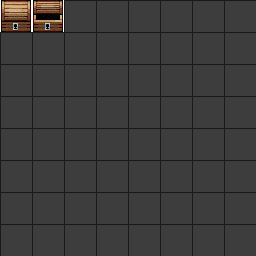
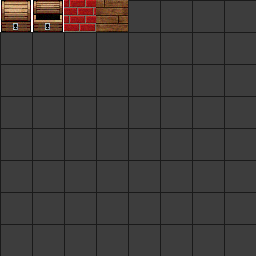
Added some artwork

Changed region(s): [[0.25, 0.0, 0.5, 0.125]]

diff --git a/Source/Trevi/Group/Common/Main.java b/Source/Trevi/Group/Common/Main.java
@@ -64,7 +64,7 @@ public class Main extends Canvas implements Runnable
 	
 	private BufferedImage Image = new BufferedImage(Reference.Width, Reference.Height, BufferedImage.TYPE_INT_RGB);
 	
-	private BufferedImage Item, Block, Player, Shadow, Heart, Currency, Energy, Logo, Button, Map;
+	private BufferedImage Item, Block, Player, Shadow, Heart, Currency, Energy, Logo, Button;
 	private State currentState;
 	private Thread Loop;
 	private Font Console, Fancy;
@@ -96,7 +96,6 @@ public class Main extends Canvas implements Runnable
 			Block = Loader.loadImage("/Graphics/Game/Object/Block.png");
 			Player = Loader.loadImage("/Graphics/Game/Object/Player.png");
 			Shadow = Loader.loadImage("/Graphics/Game/Terrain/Shadow.png");
-			Map = Loader.loadImage("/Graphics/Game/Terrain/Map.png");
 			Button = Loader.loadImage("/Graphics/Menu/Button.png");
 			Logo = Loader.loadImage("/Graphics/Splash/Logo.png");
 			
@@ -113,9 +112,6 @@ public class Main extends Canvas implements Runnable
 		
 		Object = new ObjectManager();
 		
-		Object.addBlock(new Block(1, 1, 200, 400, this, "closedChest"));
-		Object.addBlock(new Block(1, 1, 300, 400, this, "closedChest"));
-		
 		for(int Par1 = 0; Par1 < 1024; Par1 += 64)
 		{
 			Object.addBlock(new Block(3, 1, 0 + Par1, 0, this, "Wall"));
@@ -123,6 +119,27 @@ public class Main extends Canvas implements Runnable
 			Object.addBlock(new Block(3, 1, 0, 0  + Par1, this, "Wall"));
 			Object.addBlock(new Block(3, 1, 960, 0  + Par1, this, "Wall"));
 		}
+		
+		for(int Par1 = 0; Par1 < 896; Par1 += 64)
+		{
+			Object.addBlock(new Block(4, 1, 64 + Par1, 64, this, "woodenFloor"));
+			Object.addBlock(new Block(4, 1, 64 + Par1, 128, this, "woodenFloor"));
+			Object.addBlock(new Block(4, 1, 64 + Par1, 192, this, "woodenFloor"));
+			Object.addBlock(new Block(4, 1, 64 + Par1, 256, this, "woodenFloor"));
+			Object.addBlock(new Block(4, 1, 64 + Par1, 320, this, "woodenFloor"));
+			Object.addBlock(new Block(4, 1, 64 + Par1, 384, this, "woodenFloor"));
+			Object.addBlock(new Block(4, 1, 64 + Par1, 448, this, "woodenFloor"));
+			Object.addBlock(new Block(4, 1, 64 + Par1, 512, this, "woodenFloor"));
+			Object.addBlock(new Block(4, 1, 64 + Par1, 576, this, "woodenFloor"));
+			Object.addBlock(new Block(4, 1, 64 + Par1, 640, this, "woodenFloor"));
+			Object.addBlock(new Block(4, 1, 64 + Par1, 704, this, "woodenFloor"));
+			Object.addBlock(new Block(4, 1, 64 + Par1, 768, this, "woodenFloor"));
+			Object.addBlock(new Block(4, 1, 64 + Par1, 832, this, "woodenFloor"));
+			Object.addBlock(new Block(4, 1, 64 + Par1, 896, this, "woodenFloor"));
+		}
+		
+		Object.addBlock(new Block(1, 1, 200, 400, this, "closedChest"));
+		Object.addBlock(new Block(1, 1, 300, 400, this, "closedChest"));
 		
 		addKeyListener(new KeyInput(this));
 		addMouseListener(new MouseInput(this));
@@ -330,11 +347,11 @@ public class Main extends Canvas implements Runnable
 		else if(currentState == State.Game)
 		{
 			Graphics.drawImage(Image, 0, 0, Frame.getWidth(), Frame.getHeight(), this);
-			Graphics.drawImage(Map, (int)Character.getX(), (int)Character.getY(), 1024, 1024, this);	
-
-			Graphics.drawImage(Shadow, Frame.getWidth() / 2 - 47, Frame.getHeight() / 2 + 12, 48 * Reference.Scale, 48 * Reference.Scale, this);	
 			
 			Object.renderBlock(Graphics);
+			
+			Graphics.drawImage(Shadow, Frame.getWidth() / 2 - 47, Frame.getHeight() / 2 + 12, 48 * Reference.Scale, 48 * Reference.Scale, this);	
+			
 			Object.renderItem(Graphics);
 			
 			Character.render(Graphics, Frame.getWidth(), Frame.getHeight());

diff --git a/Source/Trevi/Group/Manager/ObjectManager.java b/Source/Trevi/Group/Manager/ObjectManager.java
@@ -134,13 +134,7 @@ public class ObjectManager
 					removeBlock(Par1);
 				}
 				
-				if(tempBlock.getName() == "closedDoor")
-				{
-					addBlock(new Block(5, 1, tempBlock.getX(), tempBlock.getY(), Main.Instance, "openDoor"));
-					removeBlock(Par1);
-				}
-				
-				if(tempBlock.getName() == "openDoor")
+				if(tempBlock.getName() == "woodenFloor")
 				{
 					tempBlock.isSolid = false;
 				}
